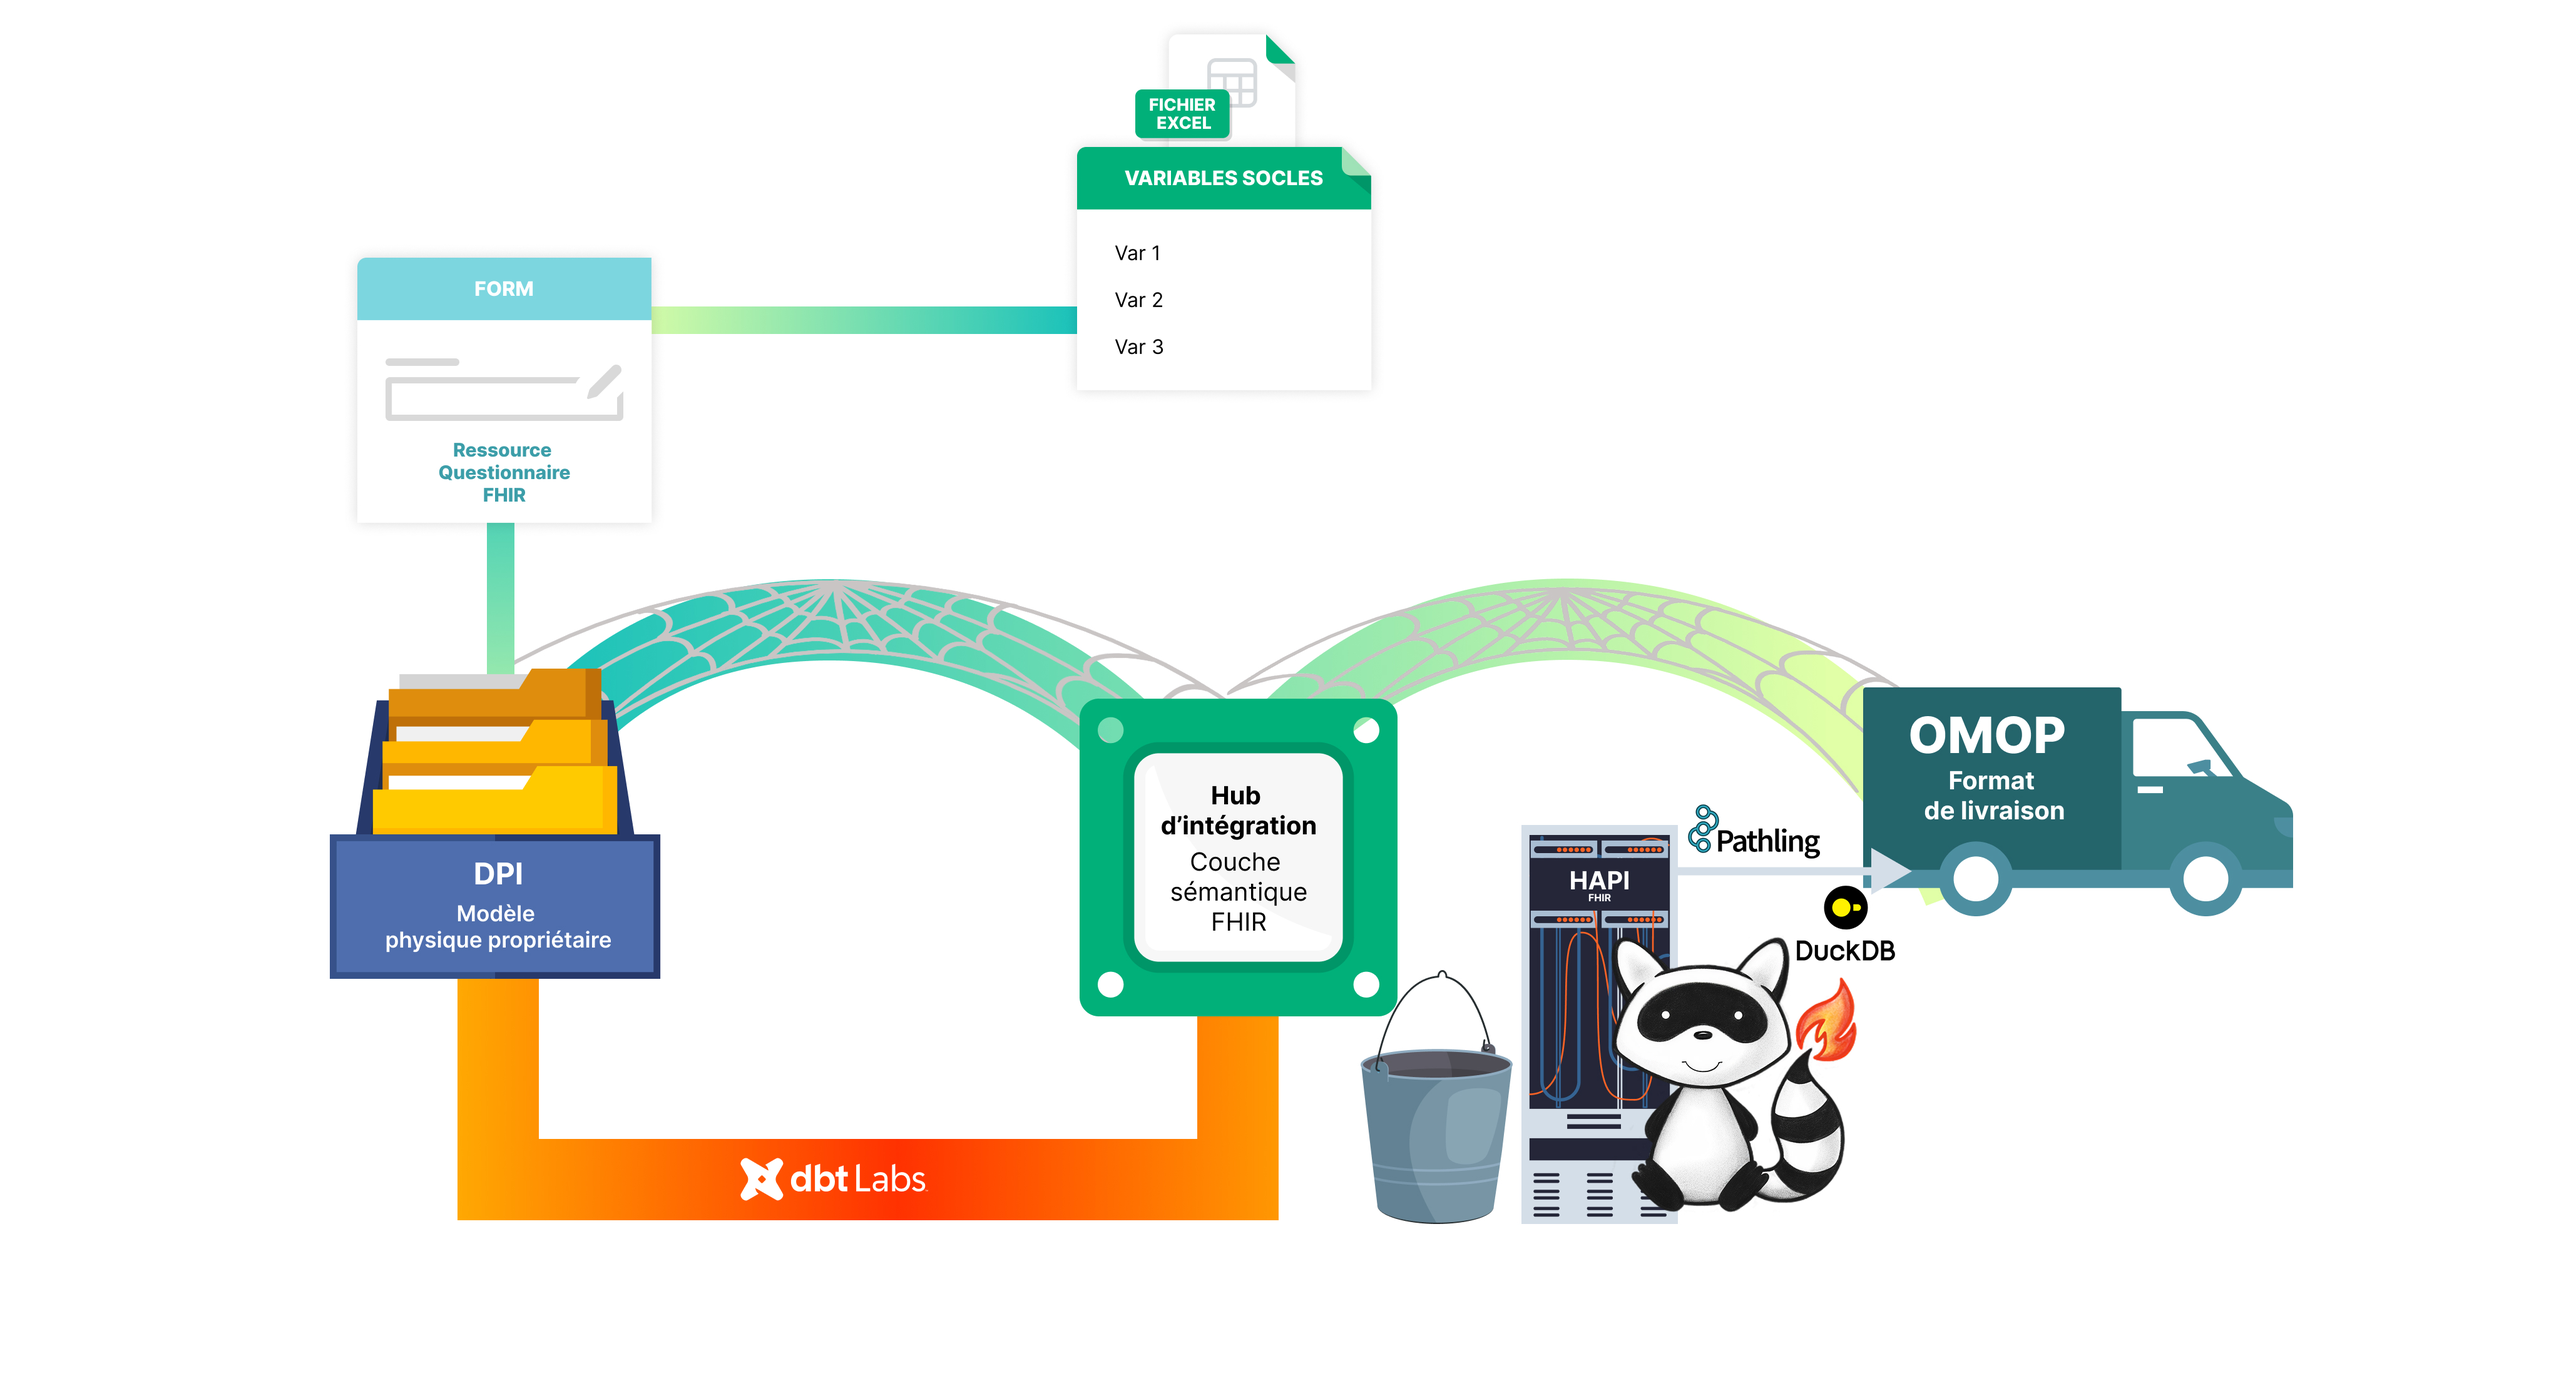
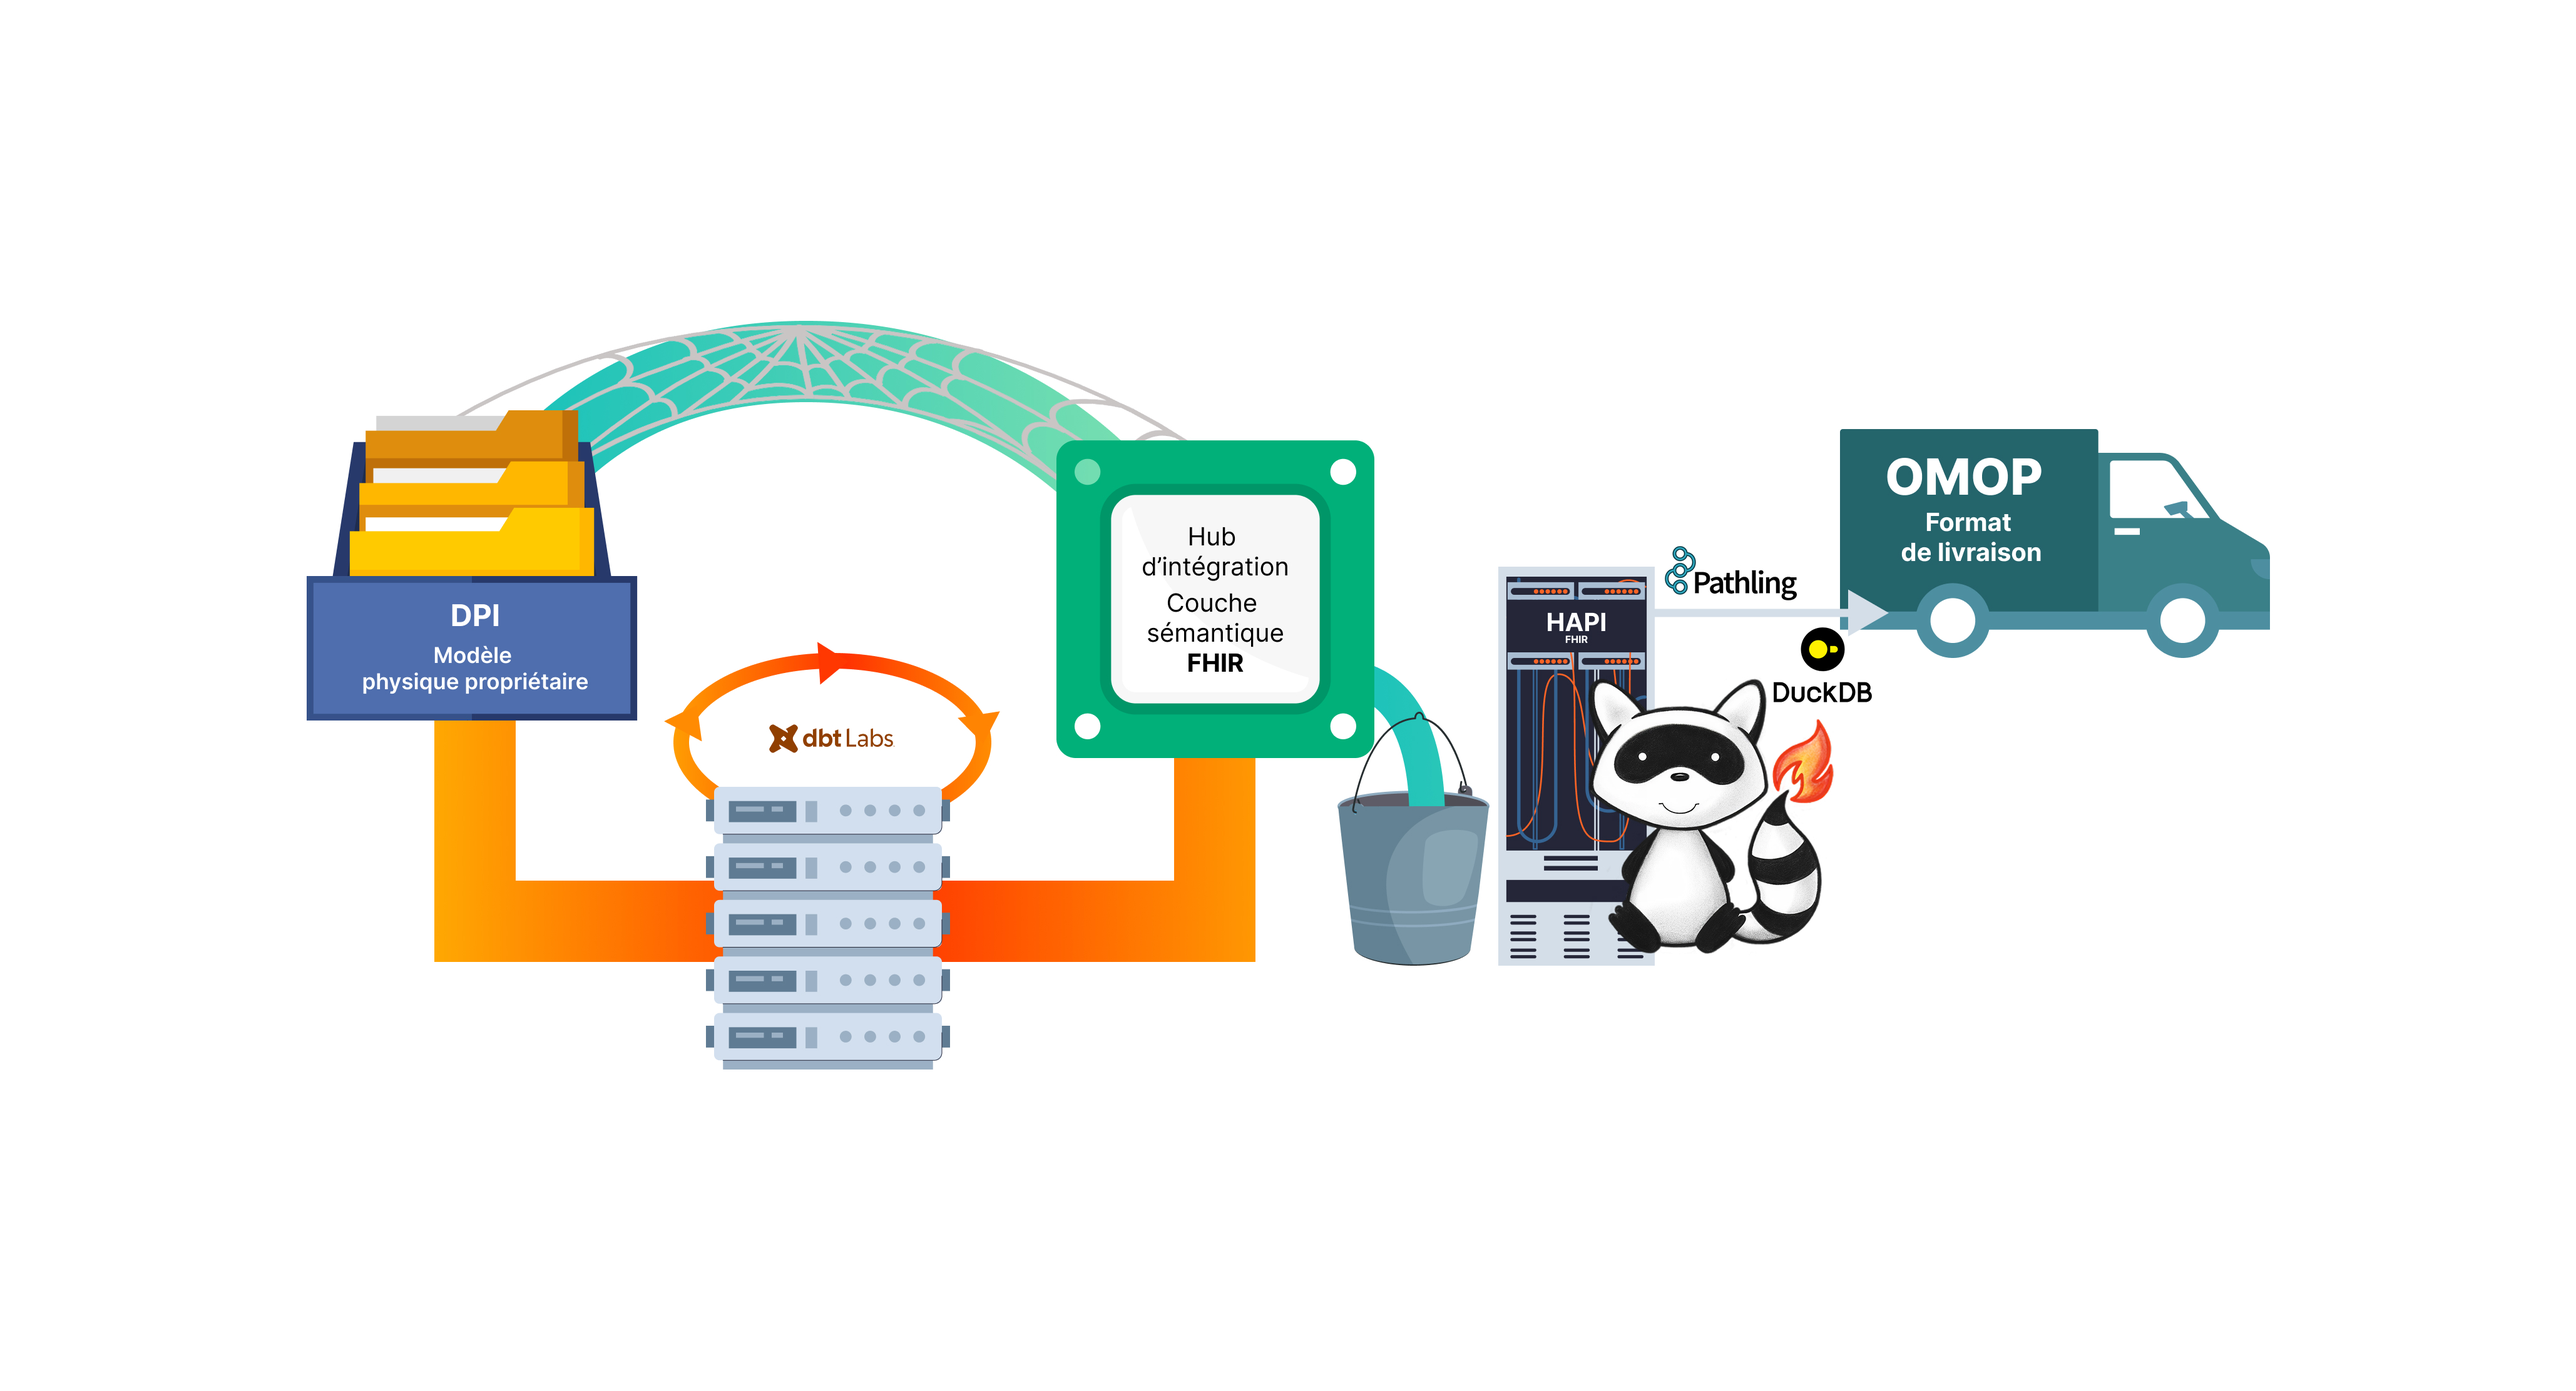
refactor(docs): reorganize knowledge acquisition process documentation
Changes:
- Split knowledge process into 3 separate pages:
  * use-core-variables-acquisition.md (new)
  * use-core-variables-formalization.md (new)
  * use-core-variables-standardization.md (new)
- Update functional schema diagram
- Update DMPatient profile and deadPatient example
- Replace Mermaid diagram for standardization process
- Update sushi-config.yaml with new page structure
- Improve data platform semantic layer documentation

This refactoring improves documentation structure and readability
for different stakeholder roles (business, technical, implementers).

Changed region(s): [[0.0933, 0.1862, 0.9018, 0.8997], [0.4043, 0.031, 0.5287, 0.1551]]

diff --git a/input/pagecontent/use-core-variables-standardization.md b/input/pagecontent/use-core-variables-standardization.md
@@ -1,0 +1,66 @@
+{% include markdown-link-references.md %}
+
+Les [exigences de l'usage **Variables socles pour les EDSH** (fichier MSExcel)](DocumentReference-CoreExigences.html) 
+référencées issues des travaux du GT Standards & Interopérabilité. 
+
+### Modèles standardisés (Profils FHIR)
+
+Le tableau ci-dessous référence tous les profils FHIR résultat du processus de standardisation des données au format FHIR.
+
+| Groupe | Données | Caractéristiques |
+|--------|---------|------------------|
+| Identité patient | [Patient](StructureDefinition-DMPatient.html) | Données maîtres |
+| PMSI | [Séjour](StructureDefinition-DMEncounter.html) | Données d'intérêt |
+| PMSI | [Diagnostic CIM10](StructureDefinition-DMCondition.html) | Données d'intérêt |
+| PMSI | [Acte CCAM](StructureDefinition-DMProcedure.html) | Données d'intérêt |
+| Résultats d'examens biologiques | [Urémie](StructureDefinition-DMObservationLaboratoryUremie.html) | Données d'intérêt |
+| Résultats d'examens biologiques | [Créatininémie](StructureDefinition-DMObservationLaboratoryFonctionRenale.html) | Données d'intérêt |
+| Résultats d'examens biologiques | [Débit de filtration glomérulaire (DFG)](StructureDefinition-DMObservationLaboratoryFonctionRenale.html) | Données d'intérêt |
+| Résultats d'examens biologiques | [Leucocytes](StructureDefinition-DMObservationLaboratoryLeucocytes.html) | Données d'intérêt |
+| Résultats d'examens biologiques | [Hémoglobine](StructureDefinition-DMObservationLaboratoryHemoglobine.html) | Données d'intérêt |
+| Résultats d'examens biologiques | [Hématocrite](StructureDefinition-DMObservationLaboratoryHematocrite.html) | Données d'intérêt |
+| Résultats d'examens biologiques | [Globules rouges](StructureDefinition-DMObservationLaboratoryErythrocytes.html) | Données d'intérêt |
+| Résultats d'examens biologiques | [Volume Globulaire Moyen (VGM)](StructureDefinition-DMObservationLaboratoryVGM.html) | Données d'intérêt |
+| Résultats d'examens biologiques | [Plaquettes](StructureDefinition-DMObservationLaboratoryPlaquettes.html) | Données d'intérêt |
+| Résultats d'examens biologiques | [Neutrophiles](StructureDefinition-DMObservationLaboratoryNeutrophiles.html) | Données d'intérêt |
+| Résultats d'examens biologiques | [Lymphocytes](StructureDefinition-DMObservationLaboratoryLymphocytes.html) | Données d'intérêt |
+| Résultats d'examens biologiques | [Eosinophiles](StructureDefinition-DMObservationLaboratoryEosinophiles.html) | Données d'intérêt |
+| Résultats d'examens biologiques | [Monocytes](StructureDefinition-DMObservationLaboratoryMonocytes.html) | Données d'intérêt |
+| Résultats d'examens biologiques | [Taux de prothrombine (TP)](StructureDefinition-DMObservationLaboratoryTP.html) | Données d'intérêt |
+| Résultats d'examens biologiques | [Temps de céphaline activée (TCA)](StructureDefinition-DMObservationLaboratoryTCA.html) | Données d'intérêt |
+| Résultats d'examens biologiques | [Aspartate aminotransférase (AST)](StructureDefinition-DMObservationLaboratoryASAT.html) | Données d'intérêt |
+| Résultats d'examens biologiques | [Gamma-glutamyl transférase (GGT)](StructureDefinition-DMObservationLaboratoryGGT.html) | Données d'intérêt |
+| Résultats d'examens biologiques | [Phosphatases alcalines (PAL)](StructureDefinition-DMObservationLaboratoryPAL.html) | Données d'intérêt |
+| Résultats d'examens biologiques | [Bilirubine totale](StructureDefinition-DMObservationLaboratoryBilirubineTotale.html) | Données d'intérêt |
+| Résultats d'examens biologiques | [Bilirubine conjuguée](StructureDefinition-DMObservationLaboratoryBilirubineConjuguee.html) | Données d'intérêt |
+| Résultats d'examens biologiques | [Glycémie à jeun](StructureDefinition-DMObservationLaboratoryGlycemieAJeun.html) | Données d'intérêt |
+| Résultats d'examens biologiques | [Hémoglobine glyquée](StructureDefinition-DMObservationLaboratoryHbA1c.html) | Données d'intérêt |
+| Exposition médicamenteuse | [Médicament prescrit](StructureDefinition-DMMedicationRequest.html) | Données d'intérêt |
+| Exposition médicamenteuse | [Médicament administré](StructureDefinition-DMMedicationAdministration.html) | Données d'intérêt |
+| Dossier de soin | [Poids](StructureDefinition-DMObservationBodyWeight.html) | Données d'intérêt |
+| Dossier de soin | [Taille](StructureDefinition-DMObservationBodyHeight.html) | Données d'intérêt |
+| Dossier de soin | [Pression artérielle](StructureDefinition-DMObservationBloodPressure.html) | Données d'intérêt |
+| Style de vie | [Consommation de tabac](StructureDefinition-DMObservationSmokingStatus.html) | Données d'intérêt |
+| Style de vie | [Consommation d'alcool](StructureDefinition-DMObservationAlcoholUseStatus.html) | Données d'intérêt |
+| Style de vie | [Consommation d'autres drogues](StructureDefinition-DMObservationSubstanceUseStatus.html) | Données d'intérêt |
+| Style de vie | [Activité physique](StructureDefinition-DMObservationExerciceStatus.html) | Données d'intérêt |
+
+Indications de lecture : 
+- Colonne "Groupe" : Il s'agit souvent d'une information issue du fichier du [GT socle de données](DocumentReference-CoreExigences.html).
+- Colonne "Données" : Nom et référence du profil FHIR. 
+- Colonne "Caractéristiques" :
+  - Données transactionnelles: données qui représentent l'achèvement d'une action ou d'un plan d'action « métier ».  il ne s’agit pas ici de « transaction » au sens informatique de « suite d’opérations modifiant l’état d’une base de données », mais de transaction au sens commercial ; dans notre contexte, un épisode de soin, par exemple, représente une transaction. On distingue :
+    - **Données issues de formulaire** : ces données sont restituées sous la forme sous laquelle elles ont été saisies. Leur forte adhérence à des processus de production spécifiques les rend difficilement utilisables pour des agents non au fait desdits processus. 
+    - **Données d'intérêt** : ces données ont bénéficié d'une étape de standardisation lors de leur intégration dans le Hub de donnée, ce qui favorise leur réutilisabilité.
+  - **Données de références** : il s'agit des données utilisées pour organiser ou catégoriser d'autres données, ou pour relier des données à des informations à l'intérieur et à l'extérieur des limites de l'hôpital. Il s'agit généralement de codes et de descriptions ou de définitions.
+  - **Données maîtres** : elles fournissent le contexte des données relatives à l'activité métier sous la forme de concepts communs et abstraits qui se rapportent à l'activité. Elles comprennent les détails (définitions et identifiants) des objets internes et externes impliqués dans les transactions métier, tels que les clients, les produits, les employés, les fournisseurs et les domaines contrôlés (valeurs de code).
+
+### Exemples
+
+#### Cas 1 : ???
+
+TODO
+
+#### Cas 2 : ???
+
+TODO

diff --git a/input/pagecontent/use-core-variables-process.md b/input/pagecontent/use-core-variables-process.md
@@ -1,14 +1,14 @@
 {% include markdown-link-references.md %}
 
-<div id="standardisation-connaissance-fhir" style="height: 745px;" markdown="1">
-{% include processus-standardisation-connaissance.mermaid %}
+<div id="standardization-data-process" style="height: 745px;" markdown="1">
+{% include data-standardization-process.mermaid %}
 </div>
 
 La méthodologie de **gestion des données avec FHIR (Data Management with FHIR)** s'appuie sur l'approche **MDE (Model-Driven Engineering)**, qui place la modélisation au cœur de la stratégie de développement logiciel — une démarche que nous appliquons directement aux données, et en particulier aux données de santé.
 Pour traduire efficacement les besoins métiers en composants informatiques, nous adoptons une approche progressive articulée en **trois étapes**.
 
 
->* [Acquisition des connaissances](use-core-variables-knowledge-acquisition.html)
->* [Formalisation des connaissances](use-core-variables-knowledge-formalization.html)
->* [Standardisation des connaissances](use-core-variables-knowledge-standardization.html)
+>* [Acquisition des connaissances](use-core-variables-acquisition.html)
+>* [Formalisation des connaissances](use-core-variables-formalization.html)
+>* [Standardisation des connaissances](use-core-variables-standardization.html)
 

diff --git a/README.md b/README.md
@@ -76,6 +76,27 @@ propre :
   Ceux-ci sont automatiquement convertis en SVG par l'éditeur IG et insérés en ligne dans les fichiers Markdown à l'aide
   de `{%include some-diagram.svg%}` (qui correspond à `input/images-source/some-diagram.plantuml`).
 
+## Plateforme de Données (Data Platform)
+
+Le répertoire [data-platform/](data-platform/) contient l'infrastructure et les outils pour gérer les données de santé à travers différentes couches :
+
+### Couche Raw Layer
+La [couche de données brutes](data-platform/raw-layer/) fournit :
+- Infrastructure PostgreSQL conteneurisée avec support français optimisé
+- Schéma de base de données EHR (Electronic Health Records)
+- [Loader Python](data-platform/raw-layer/test/loader/) pour le chargement des données de test
+- Données de test avec 10 patients et support complet des caractères français
+
+**Démarrage rapide :**
+```bash
+cd data-platform/raw-layer/ehr-docker
+docker-compose up -d
+cd ../test/loader
+python load_test_patients.py --database ehr --user ehr_user --clear
+```
+
+Voir la [documentation complète de la raw layer](data-platform/raw-layer/README.md) pour plus d'informations.
+
 ## Acronymes
 
 * IG : Implementation Guide

diff --git a/input/pagecontent/data-platform-semantic-layer.md b/input/pagecontent/data-platform-semantic-layer.md
@@ -2,6 +2,6 @@
 
 La conception de la couche sémantique permet de décrire les données répondant aux besoins métiers préalablement identifiés de sorte que elles soient le plus réutilisable possible afin d'améliorer leur valeur.
 
-Le modèle de donnée du Hub d'intégration a été dérivé des ressources FHIR servant de définition de base aux profils conçu dans le cadre du [processus de standardisation des données au format FHIR](use-core-variables-knowledge-standardization.html).
+Le modèle de donnée du Hub d'intégration a été dérivé des ressources FHIR servant de définition de base aux profils conçu dans le cadre du [processus de standardisation des données au format FHIR](use-core-variables-standardization.html).
 
 {% include fhir-semantic-layer-ddl.md %}
